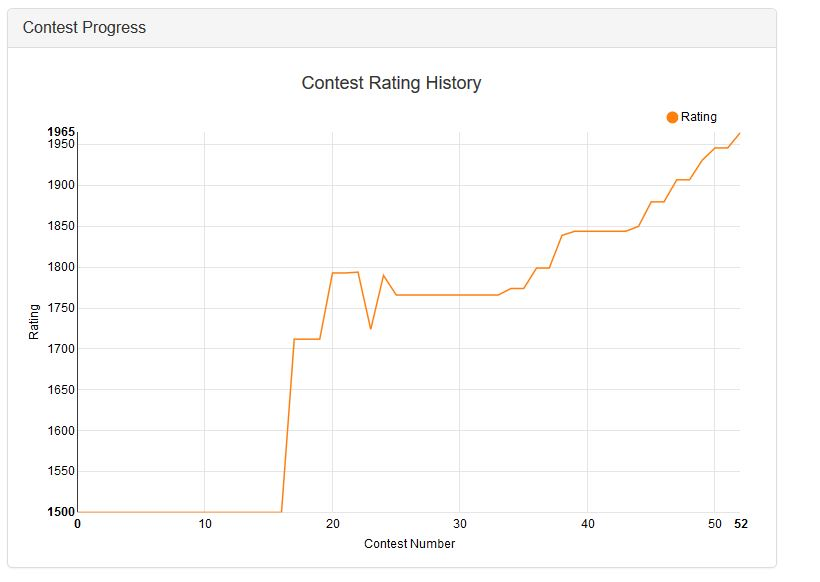
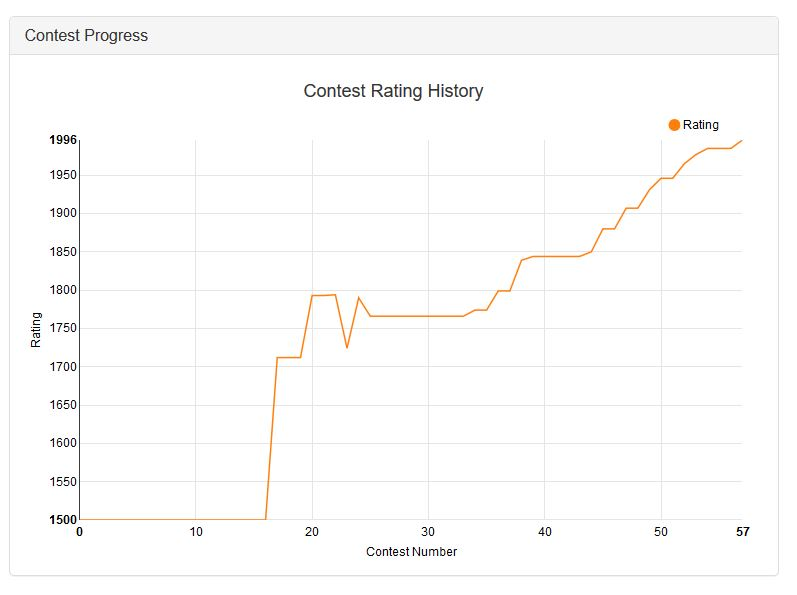
updates

diff --git a/coding.html b/coding.html
@@ -65,7 +65,7 @@
         <div align="center" class="bigpic">
             <figure>
                 <img src="images/leetcode_rating.JPG" alt="leetcode" width="500" />
-                <figcaption>My Leetcode contest progress as of September 2, 2017. </figcaption>
+                <figcaption>My Leetcode contest progress as of October 7, 2017. </figcaption>
             </figure>
         </div>
         <p>
